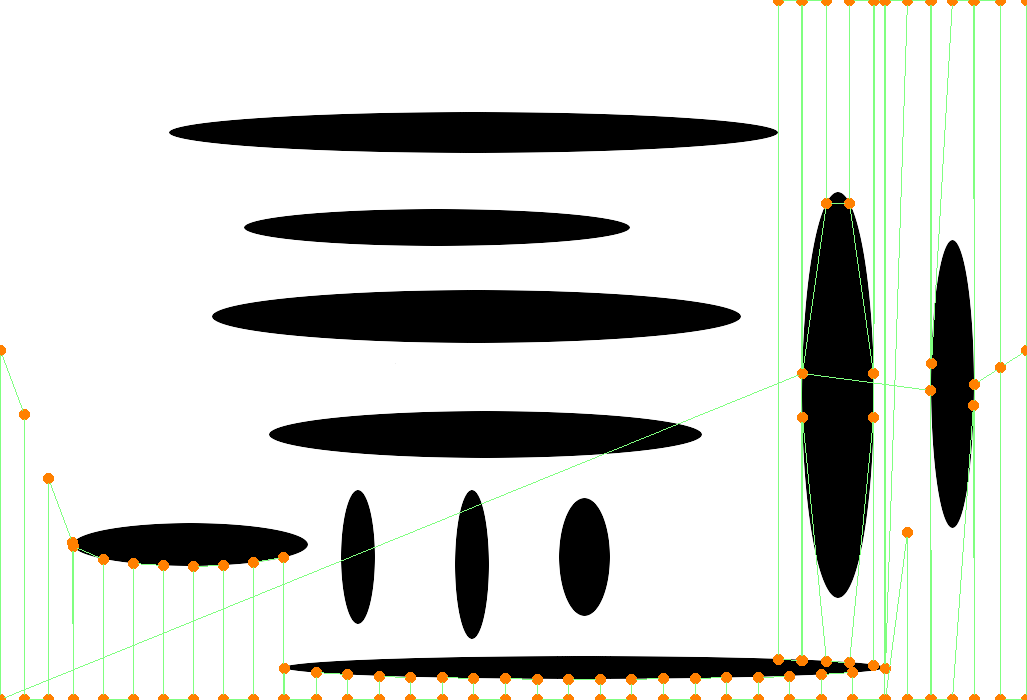
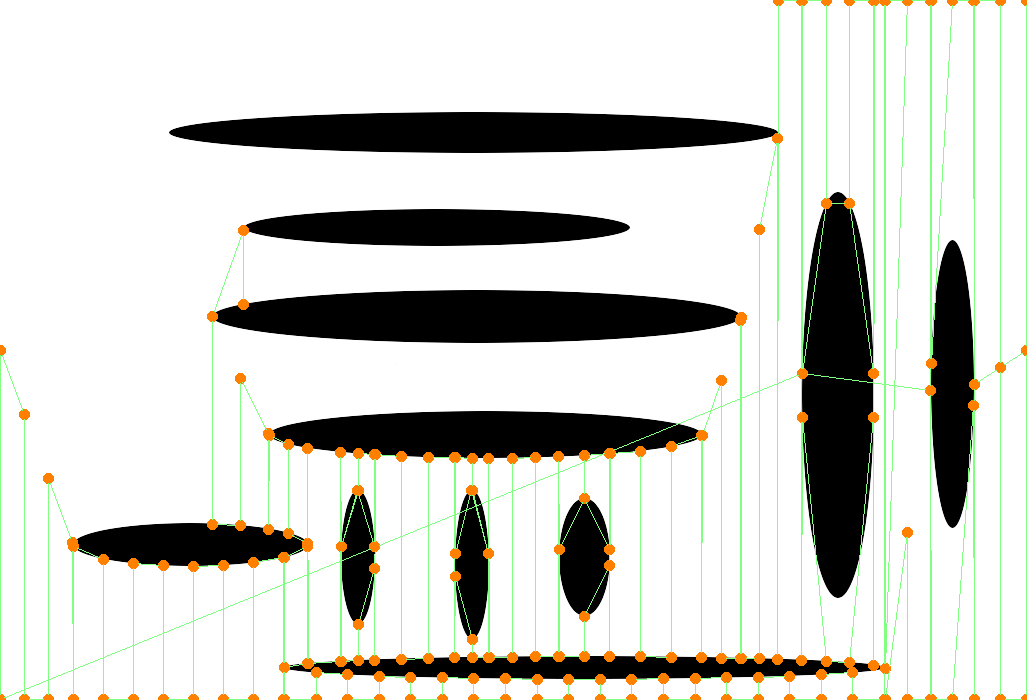
ShowTourLines

diff --git a/ShowTourLines/ShowTourLines.py b/ShowTourLines/ShowTourLines.py
@@ -1,0 +1,64 @@
+#!/usr/bin/env python
+
+WID = 0
+
+def show_tour(tour, image_filename, window_id=None):
+    global WID
+    from PIL import Image, ImageDraw
+    import cv2, numpy
+    if window_id is None:
+        window_id = WID
+        WID += 1
+    window_name = str(window_id)
+    cv2.namedWindow(window_name, cv2.WINDOW_NORMAL)
+    pil_im = Image.open(image_filename)
+    draw = ImageDraw.Draw(pil_im)
+    for i in range(1, len(tour)):
+        x1, y1 = tour[i - 1]
+        x2, y2 = tour[i]
+        r = 4
+        draw.ellipse([x1-r,y1-r,x1+r,y1+r], fill=(128, 128, 255))
+        draw.ellipse([x2-r,y2-r,x2+r,y2+r], fill=(255, 0, 0))
+        draw.line([x1,y1,x2,y2], fill=(0, 128, 0))
+        cv2_im = cv2.cvtColor(numpy.array(pil_im), cv2.COLOR_RGB2BGR)
+        cv2.imshow(window_name, cv2_im)
+        while True:
+            key = cv2.waitKey()
+            if key == 10 or key == 32:
+                break
+            elif key == 27:
+                cv2.destroyWindow(window_name)
+                return
+    cv2.destroyWindow(window_name)
+
+def show_tour_lines(tour_file, image_filename):
+    import json
+    tours = []
+    current_tour = None
+    for line in tour_file:
+        line = line.strip()
+        if line.startswith('Start'):
+            current_tour = []
+        elif line.startswith('End'):
+            tours.append(current_tour)
+            current_tour = None
+        elif line:
+            line = line.replace(') (', '), (')
+            line = '[' + line + ']'
+            line = line.replace('(', '[').replace(')', ']')
+            current_tour.extend(json.loads(line))
+    for tour in tours:
+        show_tour(tour, image_filename)
+
+def main():
+    import sys
+    if len(sys.argv) != 3:
+        print('usage: {} <tour file> <image file>'.format(sys.argv[0]))
+        raise SystemExit(1)
+    tour_filename = sys.argv[1]
+    image_filename = sys.argv[2]
+    with open(tour_filename) as tour_file:
+        show_tour_lines(tour_file, image_filename)
+
+if __name__ == '__main__':
+    main()
